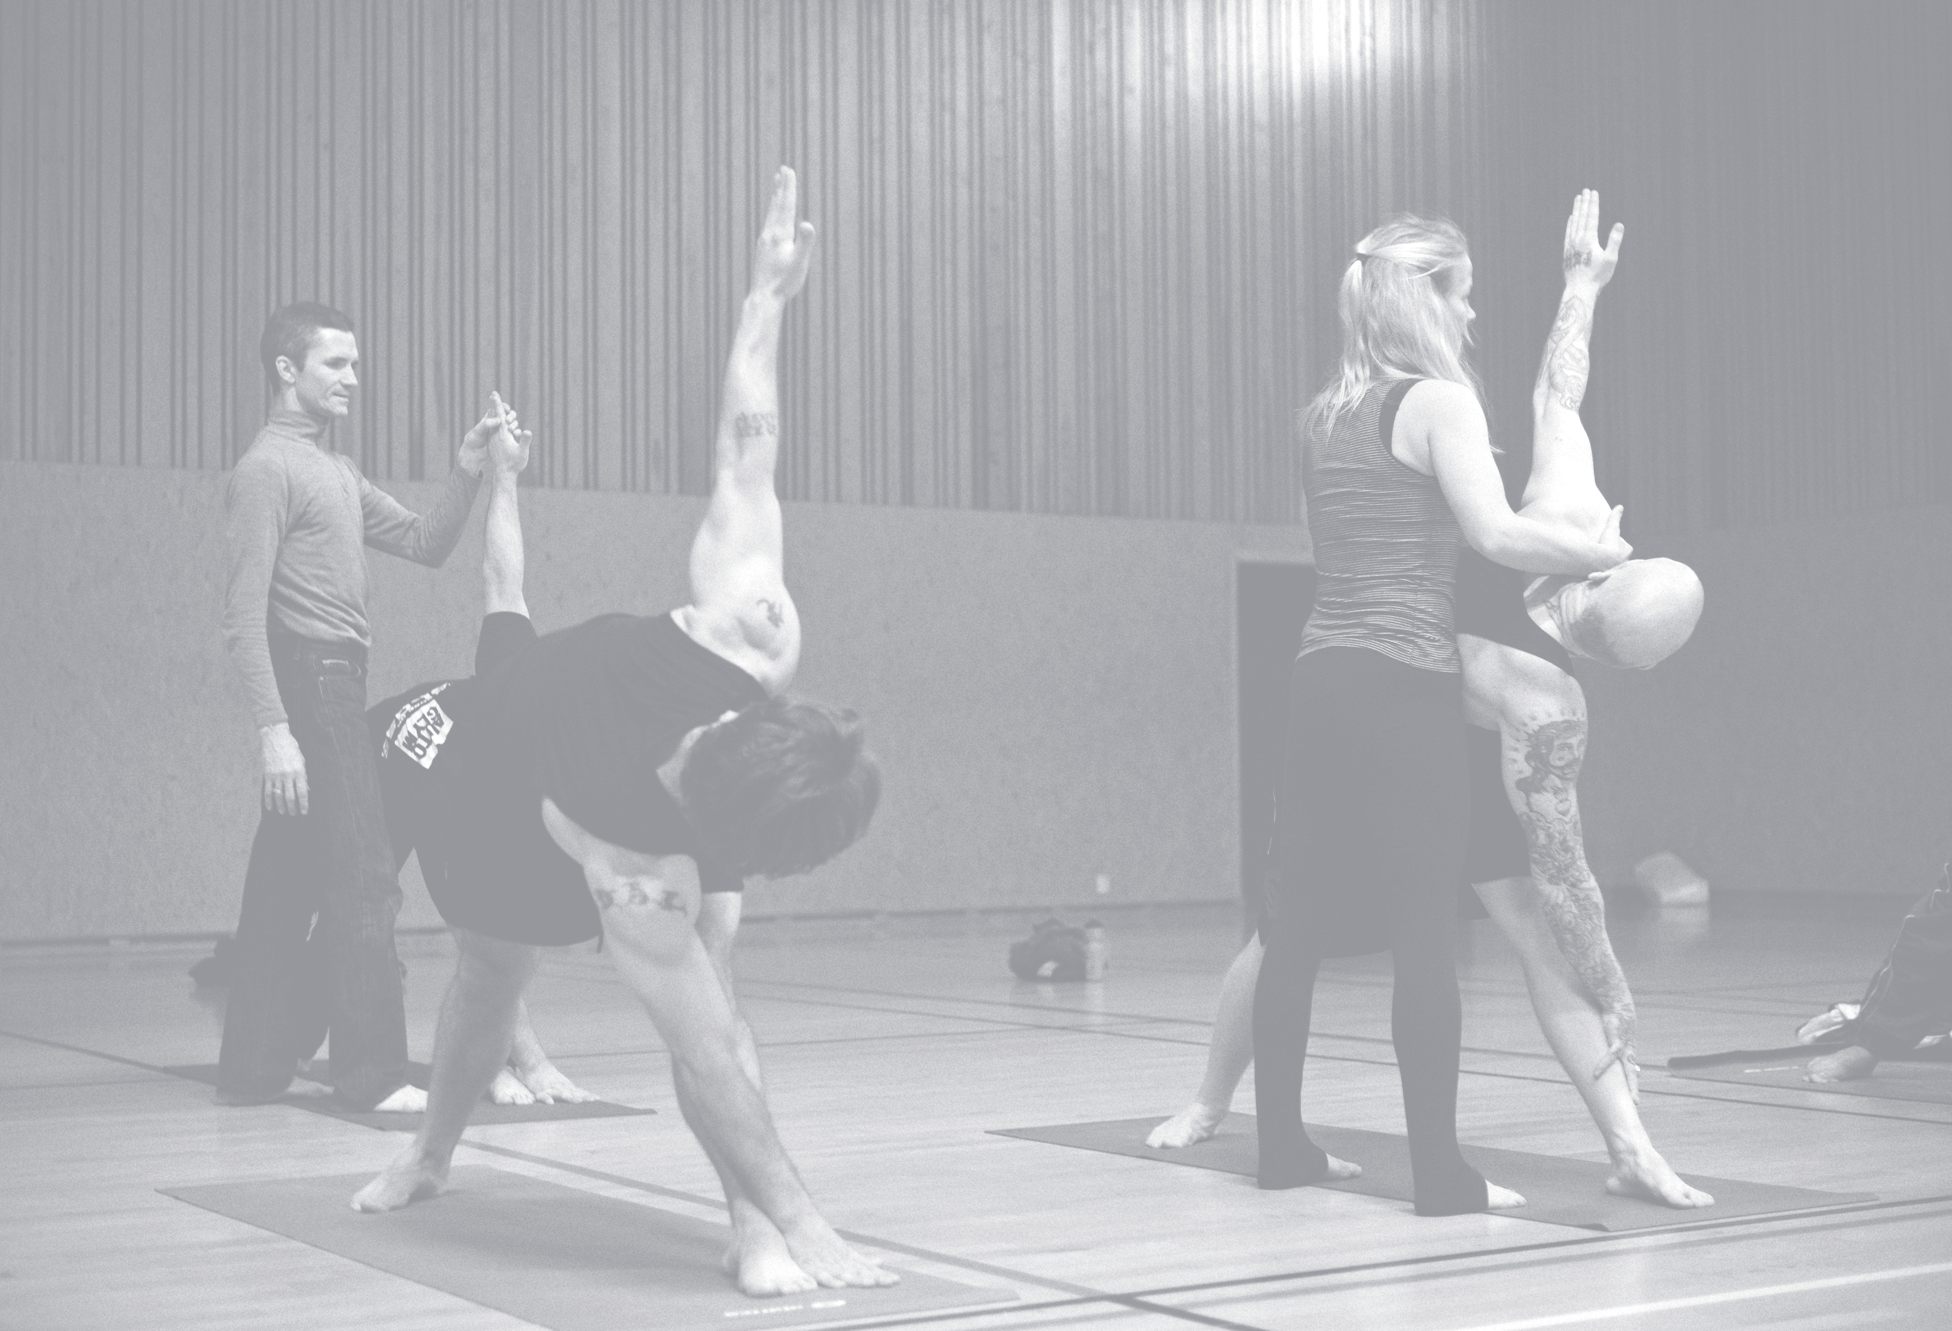
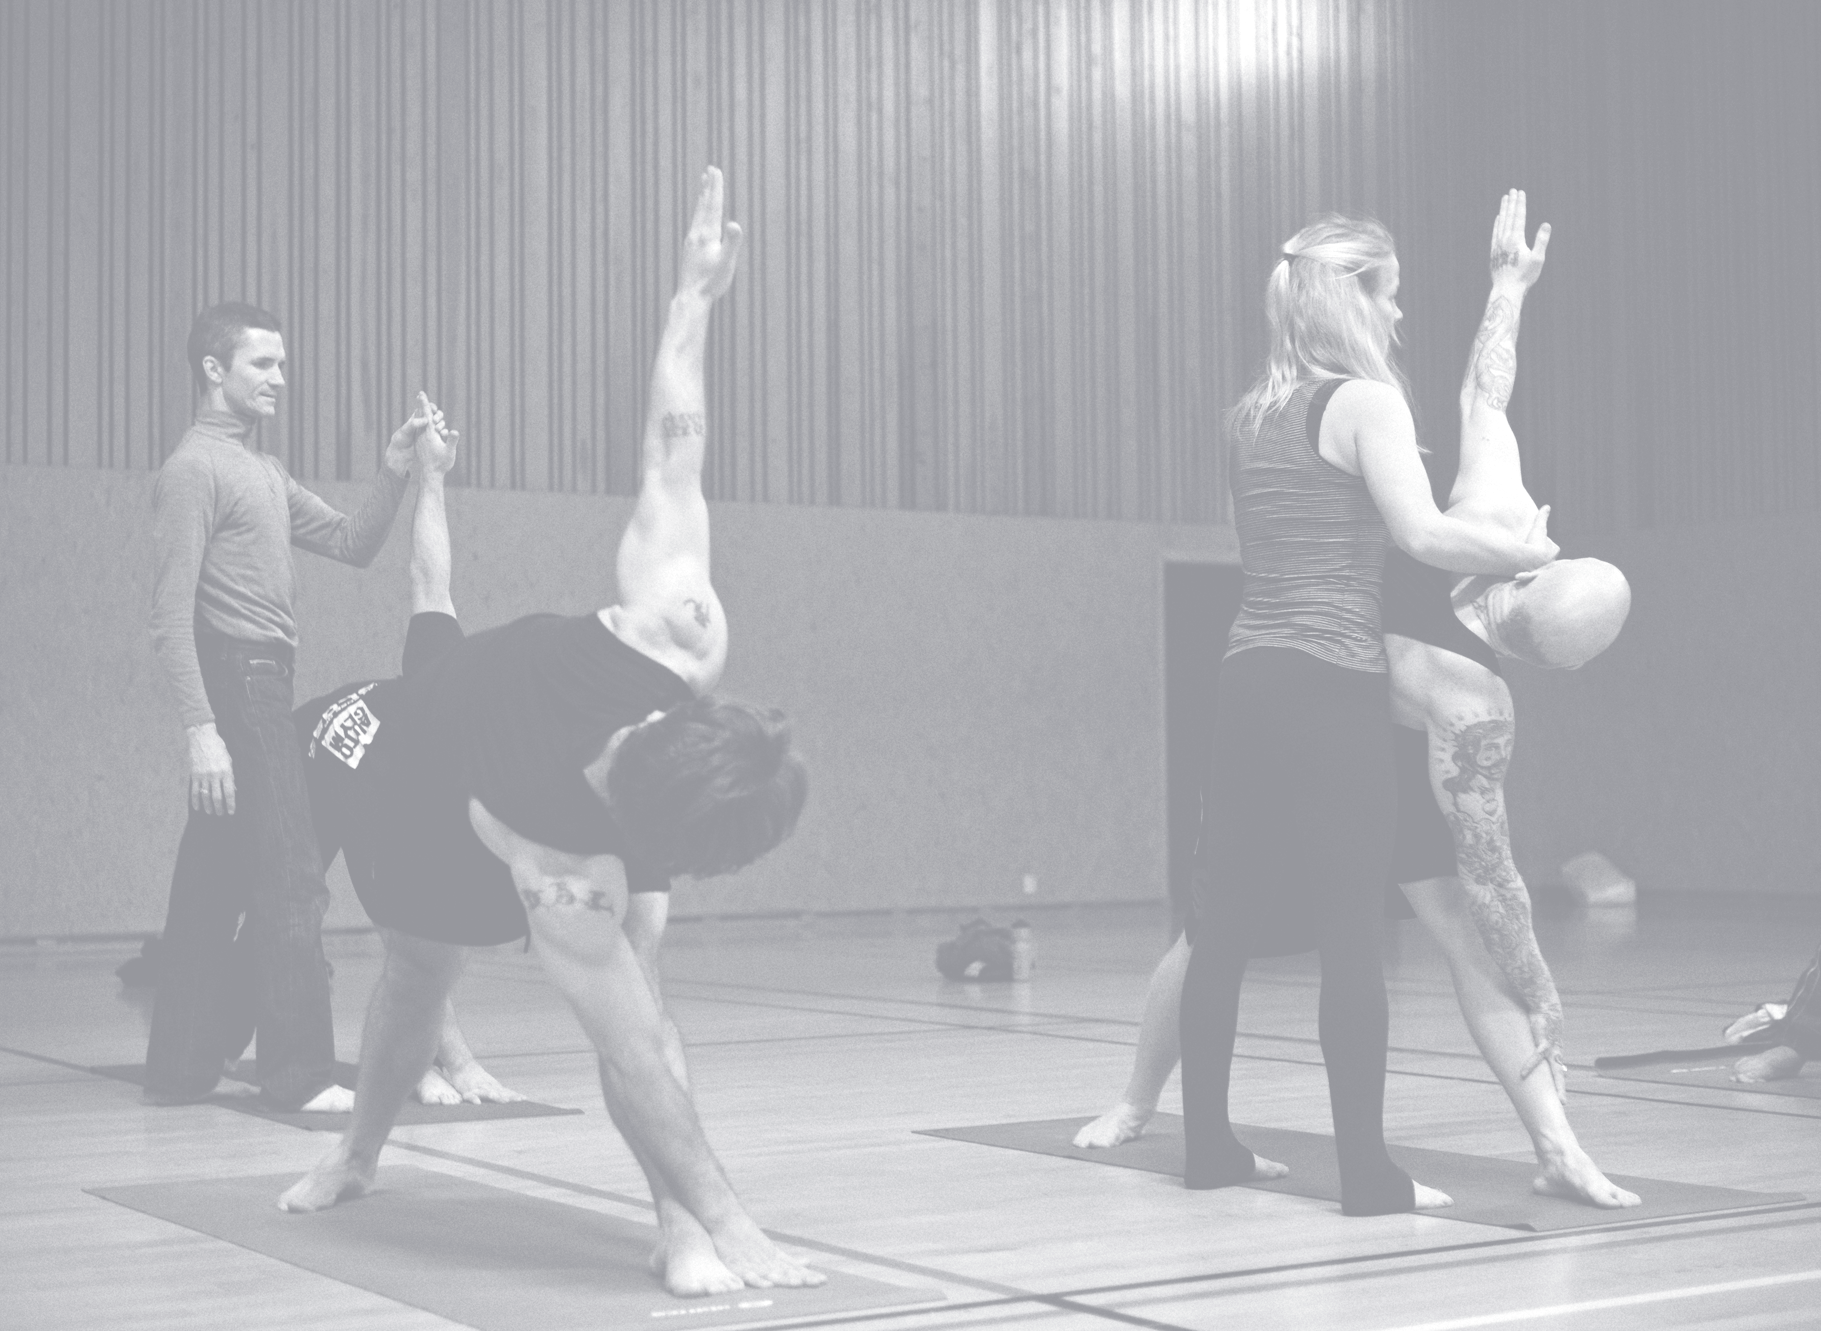
werk

diff --git a/clientsrc/css/front-page.css b/clientsrc/css/front-page.css
@@ -78,12 +78,13 @@
       font-size: 3rem;
       text-decoration: none;
       color: inherit;
+      overflow-y: hidden;
 
       .image {
         display: table;
         z-index: 1;
         height: 100%;
-        width: 101%;
+        width: 100%;
         background-size: cover;
         .text {
           display: table-cell; 

diff --git a/public/css/main.css b/public/css/main.css
@@ -986,12 +986,13 @@ hr{
   font-size:3rem;
   text-decoration:none;
   color:inherit;
+  overflow-y:hidden;
 }
 #front-page .content .link .image{
   display:table;
   z-index:1;
   height:100%;
-  width:101%;
+  width:100%;
   background-size:cover;
 }
 #front-page .content .link .image .text{
